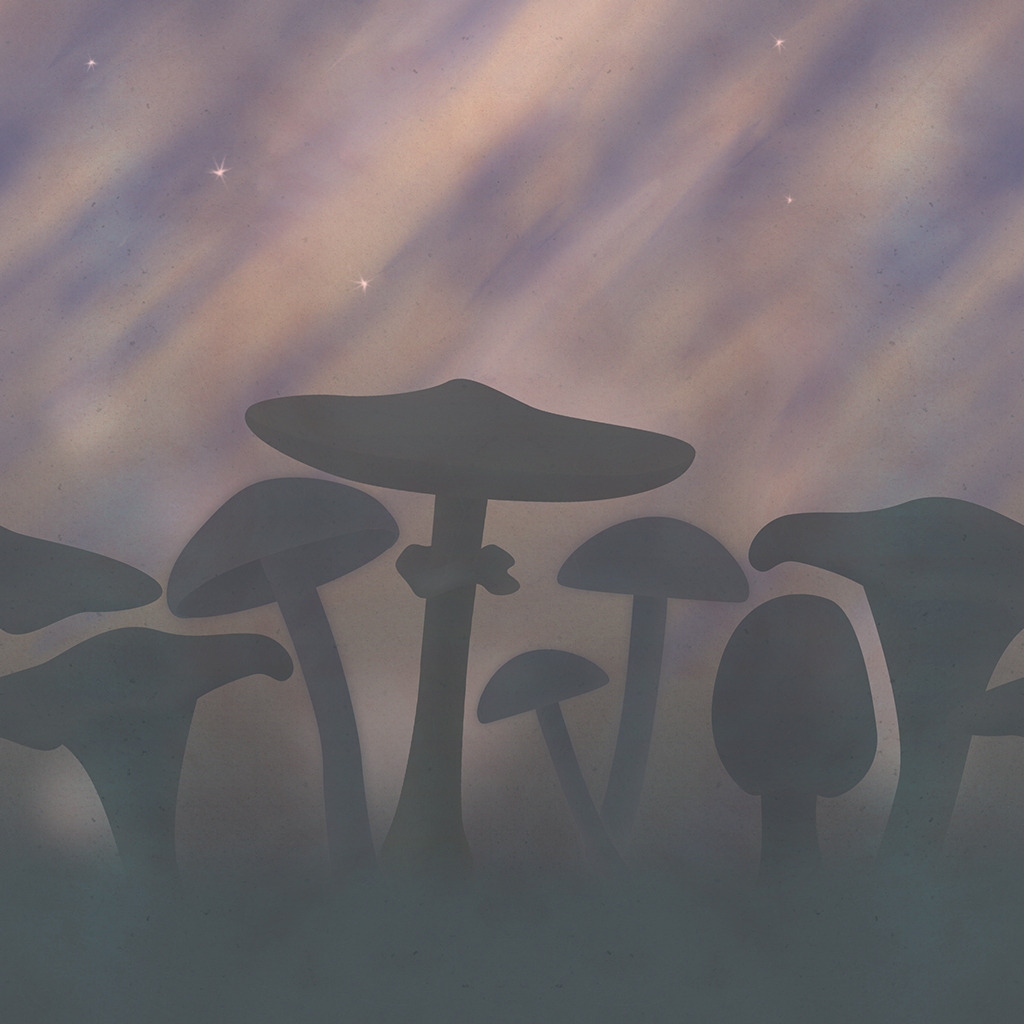
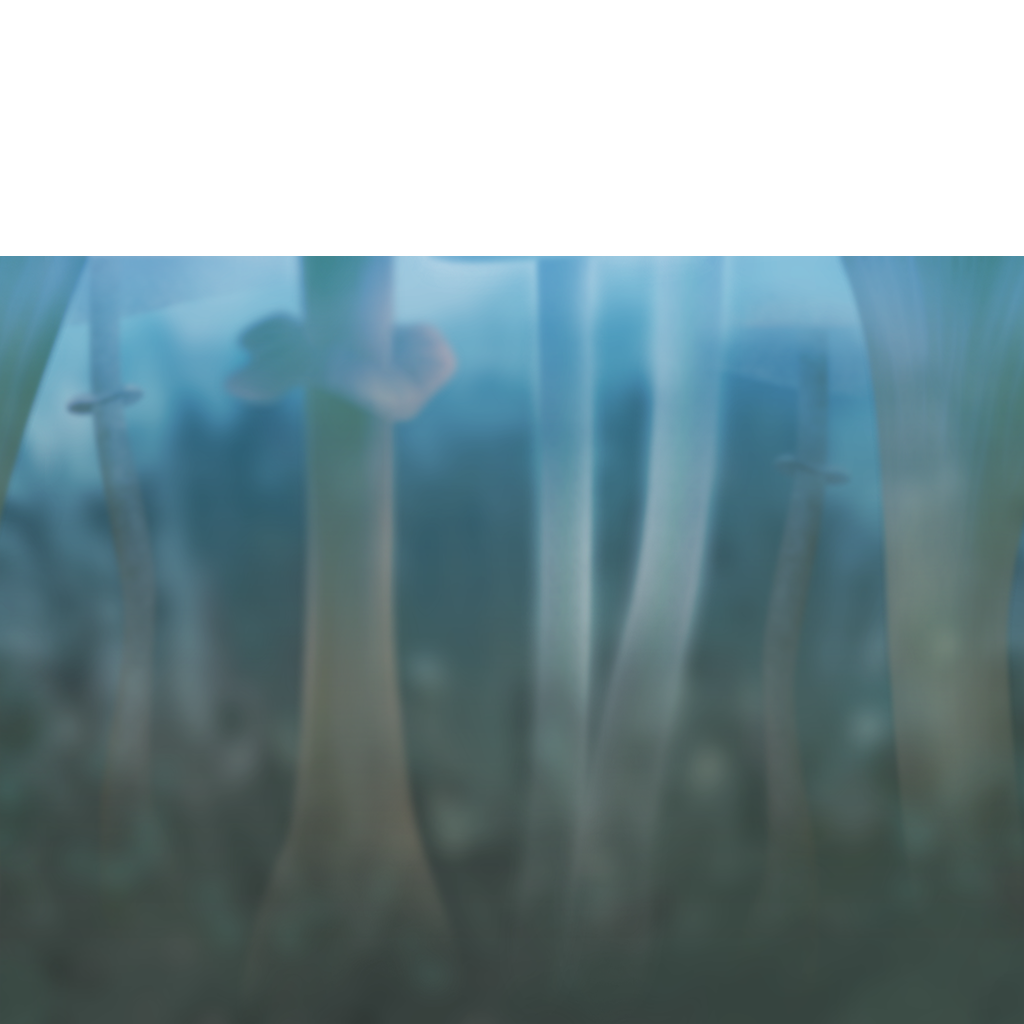
morka: new background

diff --git a/dgreed/apps/morka/obj_deco.c b/dgreed/apps/morka/obj_deco.c
@@ -18,7 +18,7 @@ static void obj_deco_construct(GameObject* self, Vector2 pos, void* user_data) {
 	RenderComponent* render = self->render;
 	render->world_dest = dest;
 	render->layer = 1;
-	render->color = COLOR_RGBA(167, 172, 182, 255);
+	render->color = COLOR_RGBA(202, 207, 255, 255);
 	render->camera = 1;
 	render->anim_frame = MAX_UINT16;
 	render->spr = spr_handle;
